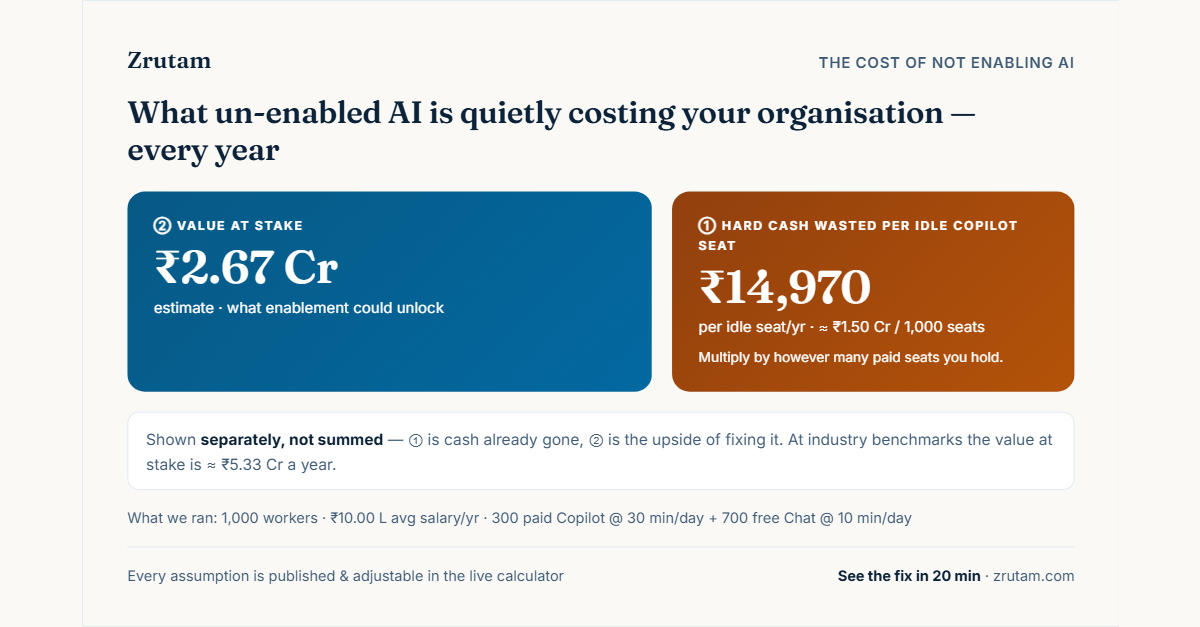
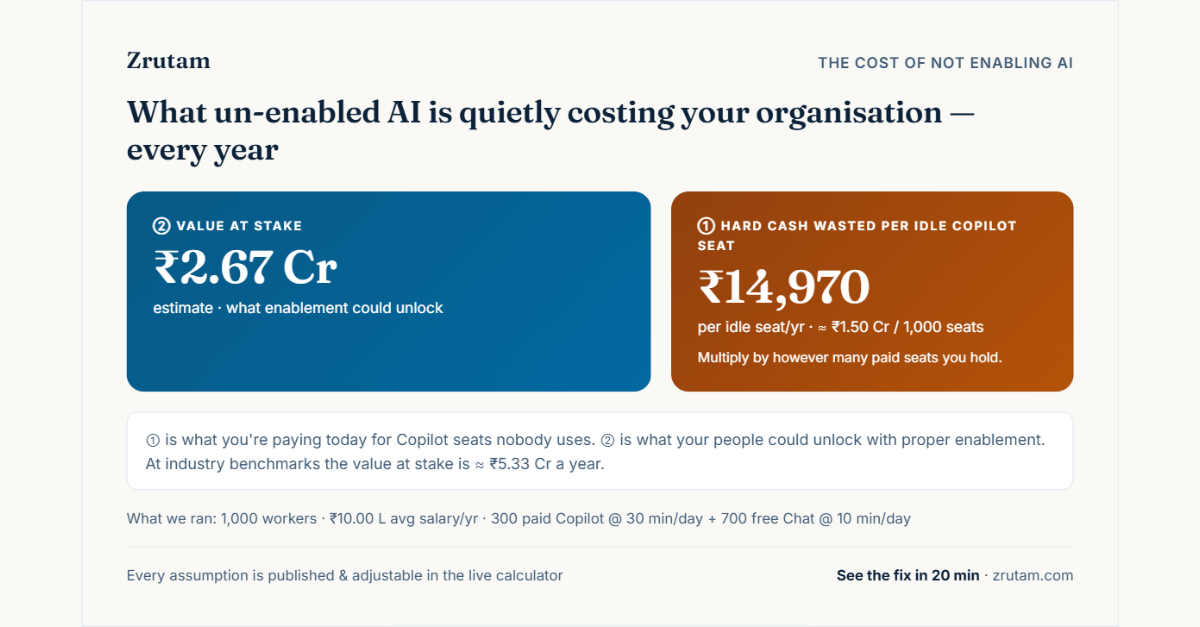
feat: AED + SGD currencies (replacing EUR/AUD), client-friendly lens copy, regenerated OG card

diff --git a/public/ai-cost/index.html b/public/ai-cost/index.html
@@ -233,8 +233,8 @@ table.bk tr.sunkrow td{color:var(--amber700)}
     <div class="seg" id="curSeg" role="group" aria-label="Currency">
       <button type="button" data-cur="INR" class="on" aria-pressed="true">&#8377; INR</button>
       <button type="button" data-cur="USD" aria-pressed="false">$ USD</button>
-      <button type="button" data-cur="EUR" aria-pressed="false">&euro; EUR</button>
-      <button type="button" data-cur="AUD" aria-pressed="false">A$ AUD</button>
+      <button type="button" data-cur="AED" aria-pressed="false">AED</button>
+      <button type="button" data-cur="SGD" aria-pressed="false">S$ SGD</button>
     </div>
   </div>
 
@@ -251,8 +251,8 @@ table.bk tr.sunkrow td{color:var(--amber700)}
       <div class="choices" role="group" aria-label="Choose currency">
         <button type="button" class="wcur on" data-cur="INR" aria-pressed="true">&#8377; INR<span class="sub">India</span></button>
         <button type="button" class="wcur" data-cur="USD" aria-pressed="false">$ USD<span class="sub">United States</span></button>
-        <button type="button" class="wcur" data-cur="EUR" aria-pressed="false">&euro; EUR<span class="sub">Europe</span></button>
-        <button type="button" class="wcur" data-cur="AUD" aria-pressed="false">A$ AUD<span class="sub">Australia</span></button>
+        <button type="button" class="wcur" data-cur="AED" aria-pressed="false">AED<span class="sub">UAE &middot; Dubai</span></button>
+        <button type="button" class="wcur" data-cur="SGD" aria-pressed="false">S$ SGD<span class="sub">Singapore</span></button>
       </div>
       <div class="wnav">
         <span class="spacer"></span>
@@ -338,7 +338,7 @@ table.bk tr.sunkrow td{color:var(--amber700)}
         <p class="line" id="wSeatLine" hidden>at your ~<span id="wSeatPct"></span>% that's <span id="wSeatCount"></span> seats &asymp; <span id="wSunkN"></span>/yr</p>
       </div>
 
-      <div class="sep-note">Shown <strong>separately, not summed</strong> &mdash; &#9312; is cash already gone; &#9313; is the upside of fixing it. The wasted-licence figure is <strong>per seat</strong>, so multiply by however many paid Copilot seats you actually hold: &asymp; <span id="wPer1000"></span> per 1,000 idle seats.</div>
+      <div class="sep-note"><strong>What these two numbers mean:</strong> &#9312; is money already leaving your account &mdash; Copilot seats you pay for that nobody really uses. &#9313; is money you could gain &mdash; the value of the hours your people would save if they used AI well. The seat figure scales with you: &asymp; <span id="wPer1000"></span> per 1,000 idle seats.</div>
 
       <div class="cta-row">
         <a class="btn" href="https://www.zrutam.com/contact/?interest=ai-enablement">See how to fix it &mdash; book 20 min &rarr;</a>
@@ -464,7 +464,7 @@ table.bk tr.sunkrow td{color:var(--amber700)}
           <p class="line" id="oppIndLine"></p>
         </div>
 
-        <div class="sep-note">&#9312; and &#9313; are two different things, shown <strong>separately on purpose</strong>. &#9312; is cash already spent on unused licences &mdash; real even if nobody ever saves a minute. &#9313; is the value of the time your people could reclaim. <strong>We don't add them:</strong> for the paid cohort that would double-count &mdash; enabling recovers the productivity <em>and</em> justifies the licence; you don't bank both.</div>
+        <div class="sep-note"><strong>In plain terms:</strong> &#9312; is money you're already spending &mdash; paid Copilot licences sitting unused. That cash is real even if nobody ever saves a minute. &#9313; is money waiting to be unlocked &mdash; the value of the hours your team would get back with proper enablement. One is today's waste, the other is tomorrow's gain. Fixing adoption addresses both at once &mdash; which is why we show them side by side rather than adding them into one inflated total.</div>
 
         <div class="callout"><strong>Copilot is an add-on.</strong> Your team already pays for Microsoft 365 (Word, Excel, Outlook, Teams) &mdash; that base cost isn't counted here. Turning Copilot on adds ~<span id="licMoTxt">&#8377;2,495/mo</span> per person on top of that. If a seat isn't used, the <strong>entire add-on fee is pure sunk cost</strong> &mdash; and the free tier (Copilot Chat) is web-only and can't see your org data.<sup><a href="#c4">[4]</a></sup></div>
 
@@ -542,7 +542,7 @@ table.bk tr.sunkrow td{color:var(--amber700)}
       <p class="mult">Multiply by however many paid seats you hold.</p>
     </div>
   </div>
-  <p class="sc-note" id="scNote">Shown <strong>separately, not summed</strong> &mdash; &#9312; is cash already gone, &#9313; is the upside of fixing it. At industry benchmarks the value at stake is &asymp; <span id="scOppInd">&mdash;</span> a year.</p>
+  <p class="sc-note" id="scNote">&#9312; is what you're paying today for Copilot seats nobody uses. &#9313; is what your people could unlock with proper enablement. At industry benchmarks the value at stake is &asymp; <span id="scOppInd">&mdash;</span> a year.</p>
   <p class="sc-basis" id="scBasis"></p>
   <div class="sc-foot">
     <span>Every assumption is published &amp; adjustable in the live calculator</span>
@@ -585,15 +585,15 @@ var CUR = {
   USD:{sym:"$", licMo:"$30/mo", lic:360, salDef:80000, salMin:30000, salMax:300000, salStep:2500,
     chips:[[45000,"Support $45k"],[80000,"Professional $80k"],[120000,"Engineer $120k"],[180000,"Manager $180k"]],
     note:"US knowledge-worker median ≈ $80–95k/yr"},
-  EUR:{sym:"€", licMo:"€28/mo", lic:336, salDef:60000, salMin:25000, salMax:250000, salStep:2500,
-    chips:[[38000,"Support €38k"],[60000,"Professional €60k"],[90000,"Engineer €90k"],[140000,"Manager €140k"]],
-    note:"EU knowledge-worker avg ≈ €55–65k/yr"},
-  AUD:{sym:"A$", licMo:"A$45/mo", lic:540, salDef:95000, salMin:40000, salMax:320000, salStep:2500,
-    chips:[[60000,"Support A$60k"],[95000,"Professional A$95k"],[130000,"Engineer A$130k"],[180000,"Manager A$180k"]],
-    note:"Australia knowledge-worker avg ≈ A$90–100k/yr"}
+  AED:{sym:"AED ", licMo:"AED 110/mo", lic:1320, salDef:180000, salMin:60000, salMax:800000, salStep:5000,
+    chips:[[90000,"Admin AED 90k"],[180000,"Professional AED 180k"],[260000,"Engineer AED 260k"],[400000,"Manager AED 400k"]],
+    note:"UAE knowledge-worker avg ≈ AED 15–20k/month (region list, approx)"},
+  SGD:{sym:"S$", licMo:"S$41/mo", lic:492, salDef:75000, salMin:30000, salMax:350000, salStep:2500,
+    chips:[[45000,"Support S$45k"],[75000,"Professional S$75k"],[110000,"Engineer S$110k"],[160000,"Manager S$160k"]],
+    note:"Singapore knowledge-worker avg ≈ S$70–80k/yr (region list, approx)"}
 };
 /* Optional FX map — NOT used by default (currency switch resets salary, no conversion). */
-var fxINR = {INR:1, USD:87, EUR:94, AUD:57};
+var fxINR = {INR:1, USD:87, AED:23.7, SGD:65};
 
 var cur = "INR";
 
